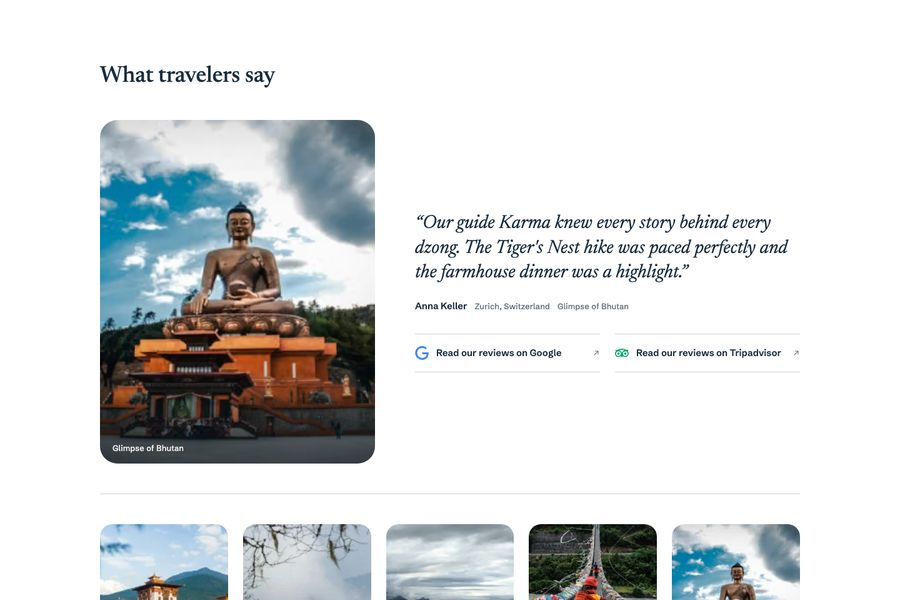
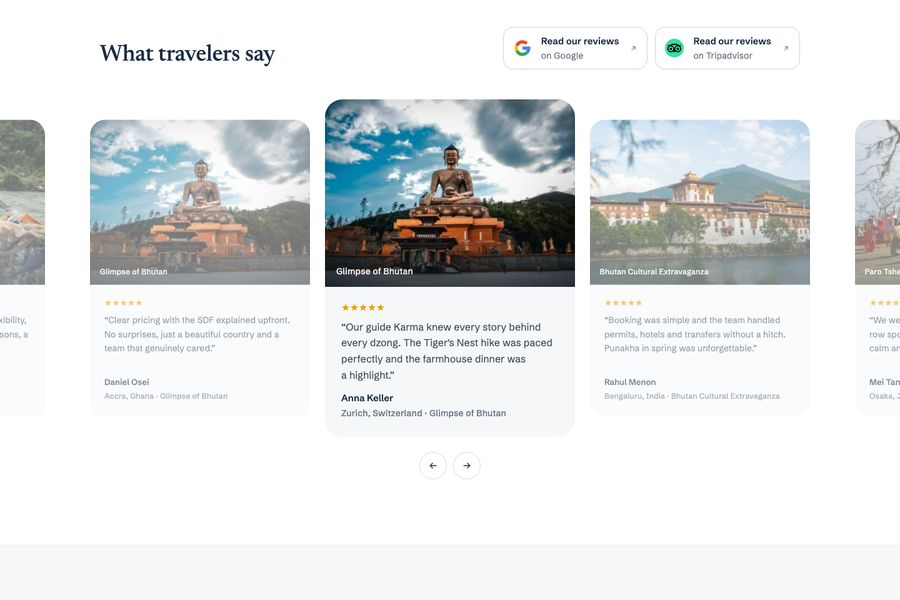
Reviews: centred-focus slider with official Google/Tripadvisor badges
- Every testimonial is a card in an endless slider; the centred one is
  full size and the neighbours step back (scale/fade towards it)
- Badges beside the title (below it on phones) with the official
  full-colour Google G and Tripadvisor owl; they show rating, stars and
  total review count once Reviews → "sample" is unticked, and link out
  without figures while it is ticked
- The slider logic (loop, glide, pause/play, arrows) is one shared
  module used by both the category and review rows
- Photos sit in a fixed 4:3 frame so a portrait image can't stretch the row

diff --git a/src/scripts/loop-rail.ts b/src/scripts/loop-rail.ts
@@ -1,0 +1,108 @@
+// Endless, self-advancing card row, shared by the category and review sliders.
+// The real cards are in the HTML (for search engines and no-JS); copies are added on each side so the loop never
+// runs out. Copies stay clickable but are hidden from screen readers and the Tab key.
+// Markup: <ul data-loop [data-focus]> in a <section> that has [data-prev], [data-next] and [data-play] buttons.
+// data-focus: cards get --d (0 at the centre → 1 one card away) and --o (the side facing the centre) so CSS can
+// make the centred card the prominent one.
+const still = matchMedia('(prefers-reduced-motion: reduce)').matches;
+const ease = (x: number) => (x < 0.5 ? 4 * x * x * x : 1 - (-2 * x + 2) ** 3 / 2);
+
+export function loopRail(track: HTMLElement) {
+  const section = track.closest('section')!;
+  const real = [...track.children] as HTMLElement[];
+  const n = real.length;
+  if (n < 2) return;
+  const step = () => real[1].offsetLeft - real[0].offsetLeft;
+  // Enough copies per side to fill even a very wide (or later widened) screen around any centred card.
+  const sets = Math.max(1, Math.ceil((Math.max(screen.width, innerWidth) / 2 + step()) / (n * step())));
+  const copies = () =>
+    real.map((li) => {
+      const c = li.cloneNode(true) as HTMLElement;
+      c.setAttribute('aria-hidden', 'true');
+      c.querySelectorAll('a, button').forEach((a) => ((a as HTMLElement).tabIndex = -1));
+      return c;
+    });
+  for (let k = 0; k < sets; k++) { track.prepend(...copies()); track.append(...copies()); }
+  const items = [...track.children] as HTMLElement[];
+  const first = sets * n; // index of the first real card
+  const centre = (el: HTMLElement) => el.offsetLeft + el.offsetWidth / 2 - track.clientWidth / 2;
+  const current = () => Math.round((track.scrollLeft - centre(items[0])) / step());
+  const jump = (left: number) => track.scrollTo({ left, behavior: 'instant' });
+
+  const focus = track.hasAttribute('data-focus');
+  let queued = false;
+  const emphasise = () => {
+    queued = false;
+    const mid = track.scrollLeft + track.clientWidth / 2, s = step();
+    for (const li of items) {
+      const c = li.offsetLeft + li.offsetWidth / 2;
+      li.style.setProperty('--d', Math.min(1, Math.abs(c - mid) / s).toFixed(3));
+      li.style.setProperty('--o', c < mid ? '100%' : '0%');
+    }
+  };
+  const refocus = () => { if (focus && !queued) { queued = true; requestAnimationFrame(emphasise); } };
+
+  jump(centre(items[first]));
+  if (focus) emphasise();
+  // Only a real width change re-centres (mobile browsers fire resize while the URL bar hides), and it keeps the card.
+  let width = innerWidth;
+  addEventListener('resize', () => {
+    if (innerWidth === width) return;
+    width = innerWidth;
+    jump(centre(items[Math.min(Math.max(current(), 0), items.length - 1)]));
+    refocus();
+  });
+
+  // Native smooth-scroll is quick and its speed can't be set, so move one card over ~1s with an ease-in-out curve.
+  // Snapping is paused during the glide (it would fight each frame) and restored at the end.
+  let gliding = false;
+  const glide = (dir: 1 | -1) => {
+    if (gliding) return;
+    if (still) return track.scrollBy({ left: dir * step(), behavior: 'instant' });
+    gliding = true;
+    const from = track.scrollLeft, by = dir * step(), start = performance.now();
+    track.style.scrollSnapType = 'none';
+    const frame = (now: number) => {
+      const p = Math.min(1, (now - start) / 1000);
+      track.scrollLeft = from + by * ease(p);
+      if (p < 1) return requestAnimationFrame(frame);
+      track.style.scrollSnapType = '';
+      gliding = false;
+    };
+    requestAnimationFrame(frame);
+  };
+
+  // Once scrolling settles inside a copy, hop to the same card in the real set (invisible: identical cards).
+  let settle: number | undefined;
+  track.addEventListener('scroll', () => {
+    refocus();
+    clearTimeout(settle);
+    settle = setTimeout(() => {
+      if (gliding) return;
+      const i = current();
+      if (i < first) jump(track.scrollLeft + n * step());
+      else if (i >= first + n) jump(track.scrollLeft - n * step());
+    }, 150);
+  }, { passive: true });
+
+  // Auto-advance, with a pause/play button (WCAG 2.2.2). Using the arrows or swiping hands control to the
+  // visitor and stops it for good; it also waits while the row is hovered, focused or off screen.
+  const toggle = section.querySelector<HTMLButtonElement>('[data-play]')!;
+  let playing = !still, seen = false;
+  const setPlaying = (on: boolean) => {
+    playing = on;
+    toggle.setAttribute('aria-pressed', String(!on));
+    toggle.setAttribute('aria-label', on ? 'Pause the slideshow' : 'Play the slideshow');
+  };
+  setPlaying(playing);
+  toggle.addEventListener('click', () => setPlaying(!playing));
+  const takeOver = () => setPlaying(false);
+  section.querySelector('[data-prev]')!.addEventListener('click', () => { takeOver(); glide(-1); });
+  section.querySelector('[data-next]')!.addEventListener('click', () => { takeOver(); glide(1); });
+  track.addEventListener('pointerdown', takeOver);
+  track.addEventListener('wheel', (e) => { if (Math.abs(e.deltaX) > Math.abs(e.deltaY)) takeOver(); }, { passive: true });
+  new IntersectionObserver(([e]) => (seen = e.isIntersecting)).observe(track);
+  setInterval(() => {
+    if (playing && seen && !document.hidden && !track.matches(':hover, :focus-within')) glide(1);
+  }, 5000);
+}

diff --git a/studio/schemaTypes/page.ts b/studio/schemaTypes/page.ts
@@ -246,7 +246,7 @@ const reviewList = defineType({
   title: 'Reviews',
   type: 'object',
   icon: StarIcon,
-  description: 'A featured guest (with their photo) and more testimonials, from Content → Reviews, plus links to your review pages.',
+  description: 'A sliding row of testimonials (the centred one is featured) from Content → Reviews, with your Google and Tripadvisor badges.',
   fields: [heading('What travelers say'), grey()],
   preview: preview('Reviews'),
 })
